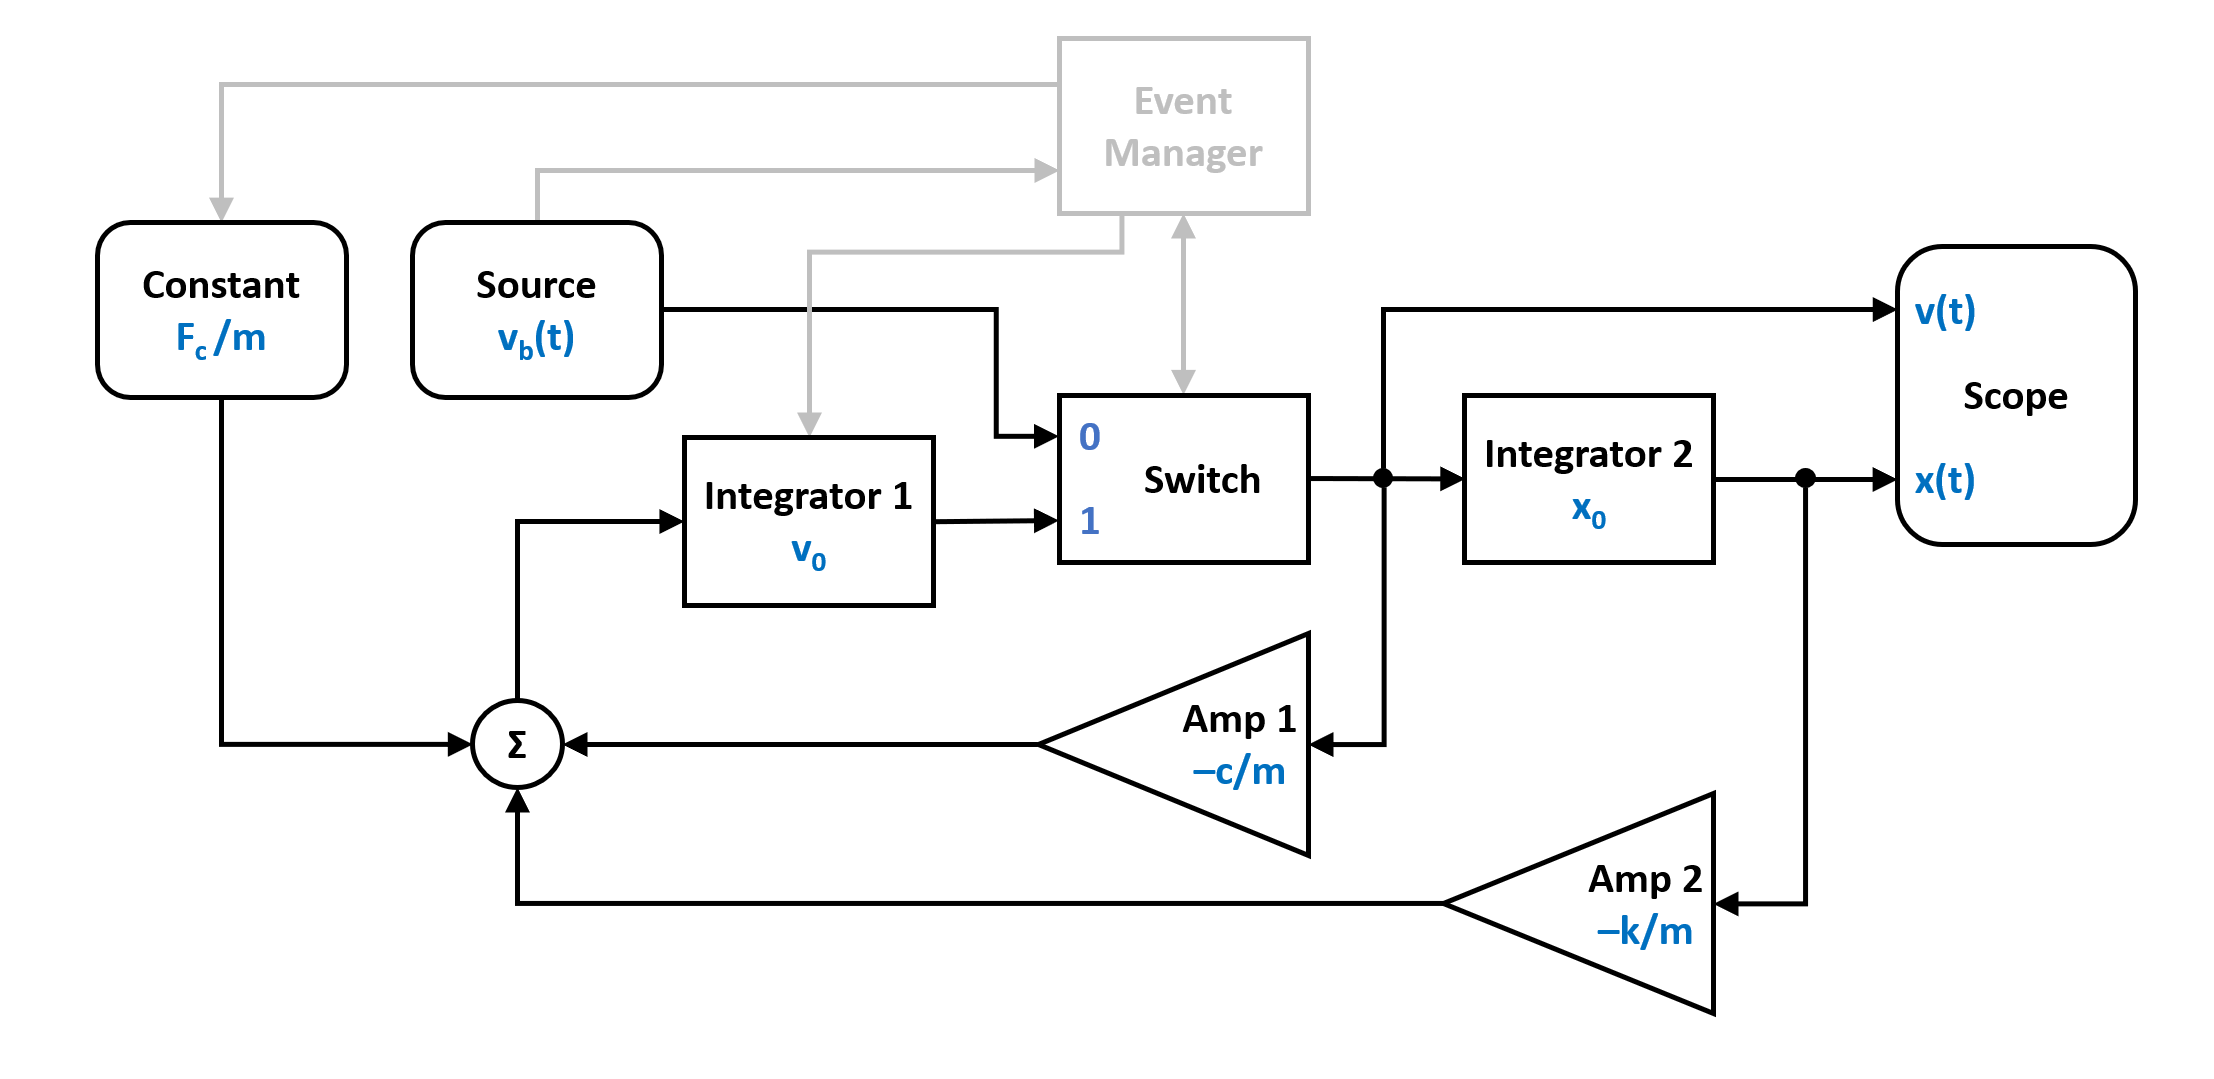
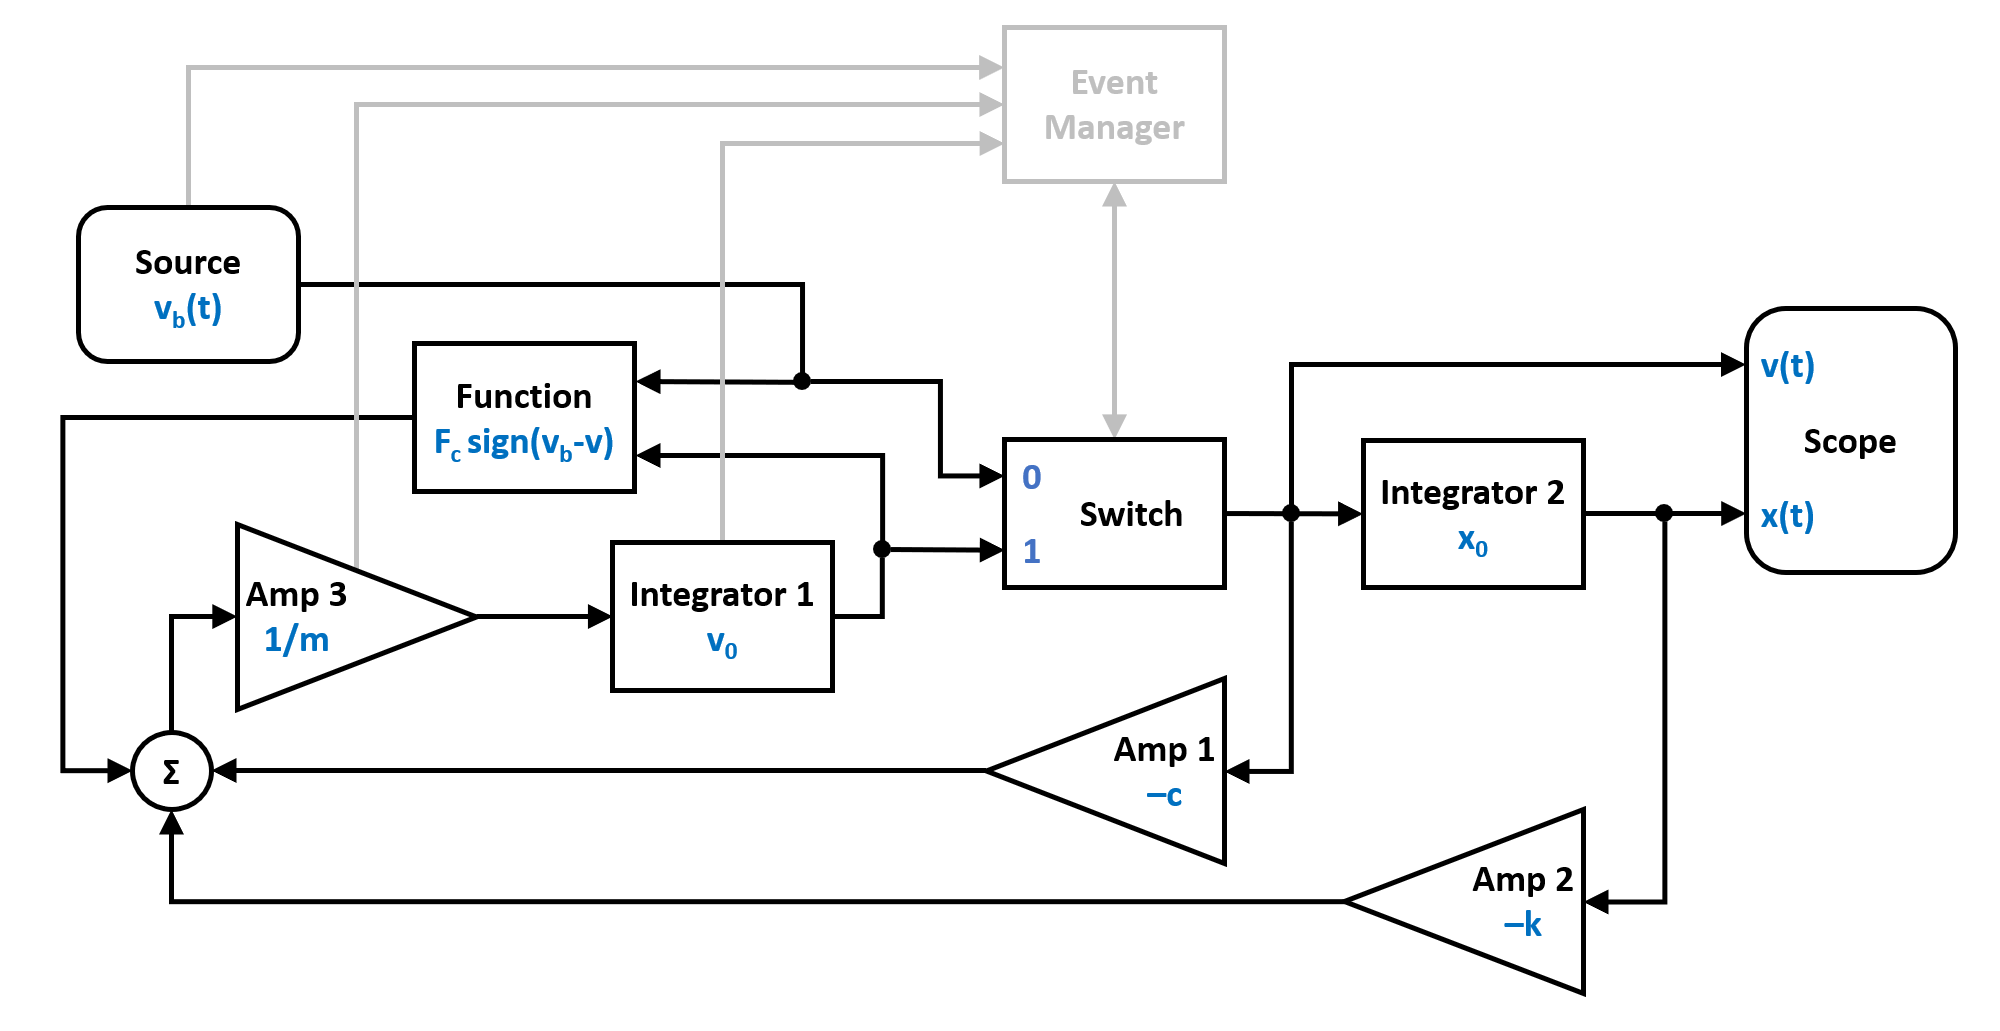
updated stick slip example and docs

Changed region(s): [[0.031, 0.0, 0.992, 0.9622], [0.868, 0.2173, 0.961, 0.2483]]

diff --git a/examples/examples_event/example_stickslip_event.py b/examples/examples_event/example_stickslip_event.py
@@ -14,7 +14,6 @@ from pathsim import Simulation, Connection
 from pathsim.blocks import (
     Integrator, 
     Amplifier, 
-    Constant,
     Function,
     Source,
     Switch,
@@ -37,62 +36,69 @@ m = 20.0    # mass
 k = 70.0    # spring constant
 d = 10.0    # spring damping
 mu_s = 1.5  # stick friction coefficient
-mu_k = 1.4  # kinetic friction coefficient
+mu_k = 1.5  # kinetic friction coefficient
 g = 9.81    # gravity
 v = 3.0     # belt velocity magnitude
 T = 50.0    # excitation period
 
 F_s = mu_s * m * g # sticking friction force 
-F_k = mu_k * m * g #kinetic friction force
+F_k = mu_k * m * g # kinetic friction force
 
 #function for belt velocity
 def v_belt(t):
     return v * np.sin(2*np.pi*t/T)
-    # return v * t/T
+    # return v * t / T
 
-#function for coulomb friction (acceleration)
+#function for coulomb friction force
 def f_coulomb(v, vb):
-    return F_k / m * np.sign(vb - v)
+    return F_k * np.sign(vb - v)
 
 
 # system topology -----------------------------------------------------------------------
 
-#blocks that define the system
+#blocks that define the system dynamics
 Sr = Source(v_belt)      # velocity of the belt
 I1 = Integrator(v0)      # integrator for velocity
 I2 = Integrator(x0)      # integrator for position
-A1 = Amplifier(-d/m)
-A2 = Amplifier(-k/m)
+A1 = Amplifier(-d)
+A2 = Amplifier(-k)
+A3 = Amplifier(1/m)
 Fc = Function(f_coulomb) # coulomb friction (kinetic)
 P1 = Adder()
 Sw = Switch(1)           # selecting port '1' initially
-Sc = Scope(
+
+#blocks for visualization
+Sc1 = Scope(
     labels=[
         "belt velocity", 
         "box velocity", 
-        "box position", 
-        "box acceleration",
-        "coulomb acceleration"
+        "box position"
+        ]
+    )
+Sc2 = Scope(
+    labels=[
+        "box force",
+        "coulomb force"
         ]
     )
 
-blocks = [Sr, I1, I2, A1, A2, Fc, P1, Sw, Sc]
+blocks = [Sr, I1, I2, A1, A2, A3, Fc, P1, Sw, Sc1, Sc2]
 
 
 #connections between the blocks
 connections = [
     Connection(I1, Sw[0]), 
-    Connection(Sr, Sw[1], Sc[0]), 
-    Connection(Sw, I2, A1, Sc[1]), 
-    Connection(I2, A2, Sc[2]), 
+    Connection(Sr, Sw[1], Sc1[0]), 
+    Connection(Sw, I2, A1, Sc1[1]), 
+    Connection(I2, A2, Sc1[2]), 
     Connection(Sw, Fc[0]), 
     Connection(Sr, Fc[1]),
     Connection(A1, P1[0]), 
     Connection(A2, P1[1]), 
-    Connection(Fc, P1[2], Sc[4]), 
-    Connection(P1, I1, Sc[3])
+    Connection(Fc, P1[2], Sc2[1]),
+    Connection(P1, A3, Sc2[0]), 
+    Connection(A3, I1)
     ]
-
 
 
 # event management ----------------------------------------------------------------------
@@ -123,8 +129,8 @@ E_slip_to_stick = ZeroCrossing(
 
 
 def stick_to_slip_evt(t):
-    _1, a, _2 = P1()
-    return F_s - abs(m * a)
+    _1, F, _2 = P1()
+    return F_s - abs(F)
 
 def stick_to_slip_act(t):
 
@@ -163,7 +169,7 @@ Sim = Simulation(
     log=True, 
     Solver=RKBS32, 
     tolerance_lte_abs=1e-6, 
-    tolerance_lte_rel=1e-3
+    tolerance_lte_rel=1e-4
     )
 
 #run the simulation for some time
@@ -172,14 +178,8 @@ Sim.run(2*T)
 
 # visualization -------------------------------------------------------------------------
 
-#plot the results directly from the scope
-Sc.plot()
-
-for t in E_slip_to_stick:
-    Sc.ax.axvline(t, ls=":", c="k")
-
-for t in E_stick_to_slip:
-    Sc.ax.axvline(t, ls="--", c="k")
-
+#plot the results directly from the two scopes
+Sc1.plot("-", lw=2)
+Sc2.plot("-", lw=2)
 
 plt.show()

diff --git a/docs/source/examples/stick_slip.rst b/docs/source/examples/stick_slip.rst
@@ -60,3 +60,233 @@ The resulting switched system is shown in the block diagram below:
 
 Note that the **event manager** tracks the system state and sets the switch to select the input of the position integrator.
 
+The event manager effectively switches between the two signal flow graphs in the figures below. The slipping state:
+
+.. image:: figures/stick_slip_blockdiagram_slip.png
+   :width: 700
+   :align: center
+   :alt: block diagram of stick slip system, slip state
+
+
+And the stick state where the velocity is clamped and the position is just determined by the integrated belt velocity:
+
+.. image:: figures/stick_slip_blockdiagram_stick.png
+   :width: 700
+   :align: center
+   :alt: block diagram of stick slip system, stick state
+
+
+Now lets implement this hybrid dynamical system into `PathSim` starting with importing the `Simulation` and `Connection` classes and the required blocks from the block library:
+
+.. code-block:: python
+       
+    from pathsim import Simulation, Connection
+
+    #the blocks we need
+    from pathsim.blocks import (
+        Integrator, Amplifier, Function, 
+        Source, Switch, Adder, Scope
+        )
+
+    #event managers
+    from pathsim.events import ZeroCrossing, ZeroCrossingUp
+
+    #adaptive rxplicit integrator (for backtracking)
+    from pathsim.solvers import RKBS32
+
+
+Next are the system parameters, including the function definitions for the `Source` and the `Function` blocks:
+
+.. code-block:: python
+
+    #initial position and velocity
+    x0, v0 = 0, 0
+
+    #system parameters
+    m = 20.0    # mass
+    k = 70.0    # spring constant
+    d = 10.0    # spring damping
+    mu_s = 1.5  # stick friction coefficient
+    mu_k = 1.5  # kinetic friction coefficient
+    g = 9.81    # gravity
+    v = 3.0     # belt velocity magnitude
+    T = 50.0    # excitation period
+
+    F_s = mu_s * m * g # sticking friction force 
+    F_k = mu_k * m * g # kinetic friction force
+
+    #function for belt velocity
+    def v_belt(t):
+        return v * np.sin(2*np.pi*t/T)
+        # return v * t / T
+
+    #function for coulomb friction force
+    def f_coulomb(v, vb):
+        return F_k * np.sign(vb - v)
+
+
+Now we can construct the system by instantiating the blocks we need with their corresponding prameters and collect them together in a list:
+
+.. code-block:: python
+
+    #blocks that define the system dynamics
+    Sr = Source(v_belt)      # velocity of the belt
+    I1 = Integrator(v0)      # integrator for velocity
+    I2 = Integrator(x0)      # integrator for position
+    A1 = Amplifier(-d)
+    A2 = Amplifier(-k)
+    A3 = Amplifier(1/m)
+    Fc = Function(f_coulomb) # coulomb friction (kinetic)
+    P1 = Adder()
+    Sw = Switch(1)           # selecting port '1' initially
+
+    #blocks for visualization
+    Sc1 = Scope(
+        labels=[
+            "belt velocity", 
+            "box velocity", 
+            "box position"
+            ]
+        )
+    Sc2 = Scope(
+        labels=[
+            "box force",
+            "coulomb force"
+            ]
+        )
+
+    blocks = [Sr, I1, I2, A1, A2, A3, Fc, P1, Sw, Sc1, Sc2]
+
+
+Afterwards, the connections between the blocks can be defined. The first argument of the `Connection` class is the source block and its port (`Src[0]` would be port `0` of the instance of the `Source` block, which is also the default port). 
+
+.. code-block:: python
+
+    #connections between the blocks
+    connections = [
+        Connection(I1, Sw[0]), 
+        Connection(Sr, Sw[1], Sc1[0]), 
+        Connection(Sw, I2, A1, Sc1[1]), 
+        Connection(I2, A2, Sc1[2]), 
+        Connection(Sw, Fc[0]), 
+        Connection(Sr, Fc[1]),
+        Connection(A1, P1[0]), 
+        Connection(A2, P1[1]), 
+        Connection(Fc, P1[2], Sc2[1]),
+        Connection(P1, A3, Sc2[0]), 
+        Connection(A3, I1)
+        ]
+
+
+Next we need to define the two event managers for the state transitions of the system. They are of type `ZeroCrossing`:
+
+
+.. code-block:: python
+
+
+    #event for slip -> stick transition
+
+    def slip_to_stick_evt(t):
+        _1, v_box , _2 = Sw() 
+        _1, v_belt, _2 = Sr()
+        dv = v_box - v_belt 
+
+        return dv
+
+    def slip_to_stick_act(t):
+
+        #change switch state
+        Sw.state = 1
+
+        I1.off()
+        Fc.off()
+
+        E_slip_to_stick.off()
+        E_stick_to_slip.on()
+       
+    E_slip_to_stick = ZeroCrossing(
+        func_evt=slip_to_stick_evt,                 
+        func_act=slip_to_stick_act, 
+        tolerance=1e-3
+        )
+
+
+    #event for stick -> slip transition
+
+    def stick_to_slip_evt(t):
+        _1, F, _2 = P1()
+        return F_s - abs(F)
+
+    def stick_to_slip_act(t):
+
+        #change switch state
+        Sw.state = 0
+
+        I1.on()
+        Fc.on()
+
+        #set integrator state
+        _1, v_box , _2 = Sw() 
+        I1.engine.set(v_box)
+
+        E_slip_to_stick.on()
+        E_stick_to_slip.off()
+
+    E_stick_to_slip = ZeroCrossing(
+        func_evt=stick_to_slip_evt,                 
+        func_act=stick_to_slip_act, 
+        tolerance=1e-3
+        )
+
+
+    events = [E_slip_to_stick, E_stick_to_slip]
+
+
+Finally we can instantiate the `Simulation` with the blocks, connections, events and some additional parameters such as the timestep. We use an adaptive timestep ODE solver `RKBS32` (its essentially the same as Matlabs `ode23`) so the event managemant system can use backtracking to accurately locate the events. Then we can run the simulation for some duration which is set as `2*T` (two periods of the source term) in this example.
+
+.. code-block:: python
+
+    #create a simulation instance from the blocks and connections
+    Sim = Simulation(
+        blocks, 
+        connections, 
+        events,
+        dt=0.01, 
+        dt_max=0.1, 
+        log=True, 
+        Solver=RKBS32, 
+        tolerance_lte_abs=1e-6, 
+        tolerance_lte_rel=1e-4
+        )
+
+    #run the simulation for some time
+    Sim.run(2*T)
+
+
+Lets have a look at the scopes and see what we got for the position and velocity:
+
+.. code-block:: python
+
+    #plot the recordings from the first scope
+    Sc1.plot("-", lw=2)
+
+
+.. image:: figures/stick_slip_results_xv.png
+   :width: 700
+   :align: center
+   :alt: results of stick slip system, pos, vel
+
+
+And the scope that recorded the forces:
+
+.. code-block:: python
+
+    #plot the recordings from the second scope
+    Sc2.plot("-", lw=2)
+
+
+.. image:: figures/stick_slip_results_forces.png
+   :width: 700
+   :align: center
+   :alt: results of stick slip system, forces
+
